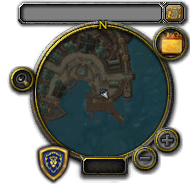
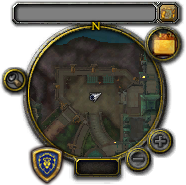
Corrected Minimap

diff --git a/components/Hud/minimap.scss b/components/Hud/minimap.scss
@@ -2,15 +2,15 @@
 @import "../../static/fonts/fonts.scss";
 #minimap {
 	position: absolute;
-	top: 0;
-	right: 0;
-	width: 189px;
-  height: 193px;
+	top: 5px;
+	right: 5px;
+	width: 186px;
+  height: 185px;
 	background: url(/static/images/hud/map/map-group.png) no-repeat center center;
 	h3 {
 		position: absolute;
 		top: 5px;
-		left: 22px;
+		left: 20px;
 		color: $gold;
 		font-family: "friz";
 		text-align: center;
@@ -27,7 +27,7 @@
 		height: 15px;
 		text-align: center;
 		position: absolute;
-		right: 7px;
+		right: 10px;
 		top: 39px;
 		font-family: "friz";
 		color: $brown;
@@ -39,8 +39,8 @@
 		font-family: "friz";
 		font-size: 9px;
 		position: absolute;
-		bottom: 20px;
-    left: 86px;
+		bottom: 12px;
+    left: 80px;
 		height: 13px;
 		line-height: 14px;
 		width: 35px;

diff --git a/components/Hud/MiniMap.js b/components/Hud/MiniMap.js
@@ -3,7 +3,7 @@ import Clock from './Clock';
 import "./minimap.scss" 
 const MiniMap = (props) => (
 	<div id="minimap">
-		<h3>Tradewinds Market</h3>
+		<h3>Proudmoore Keep</h3>
 		<div className="date">{now.getDate()}</div>
 		<div className="time"><Clock /></div>
 	</div>
